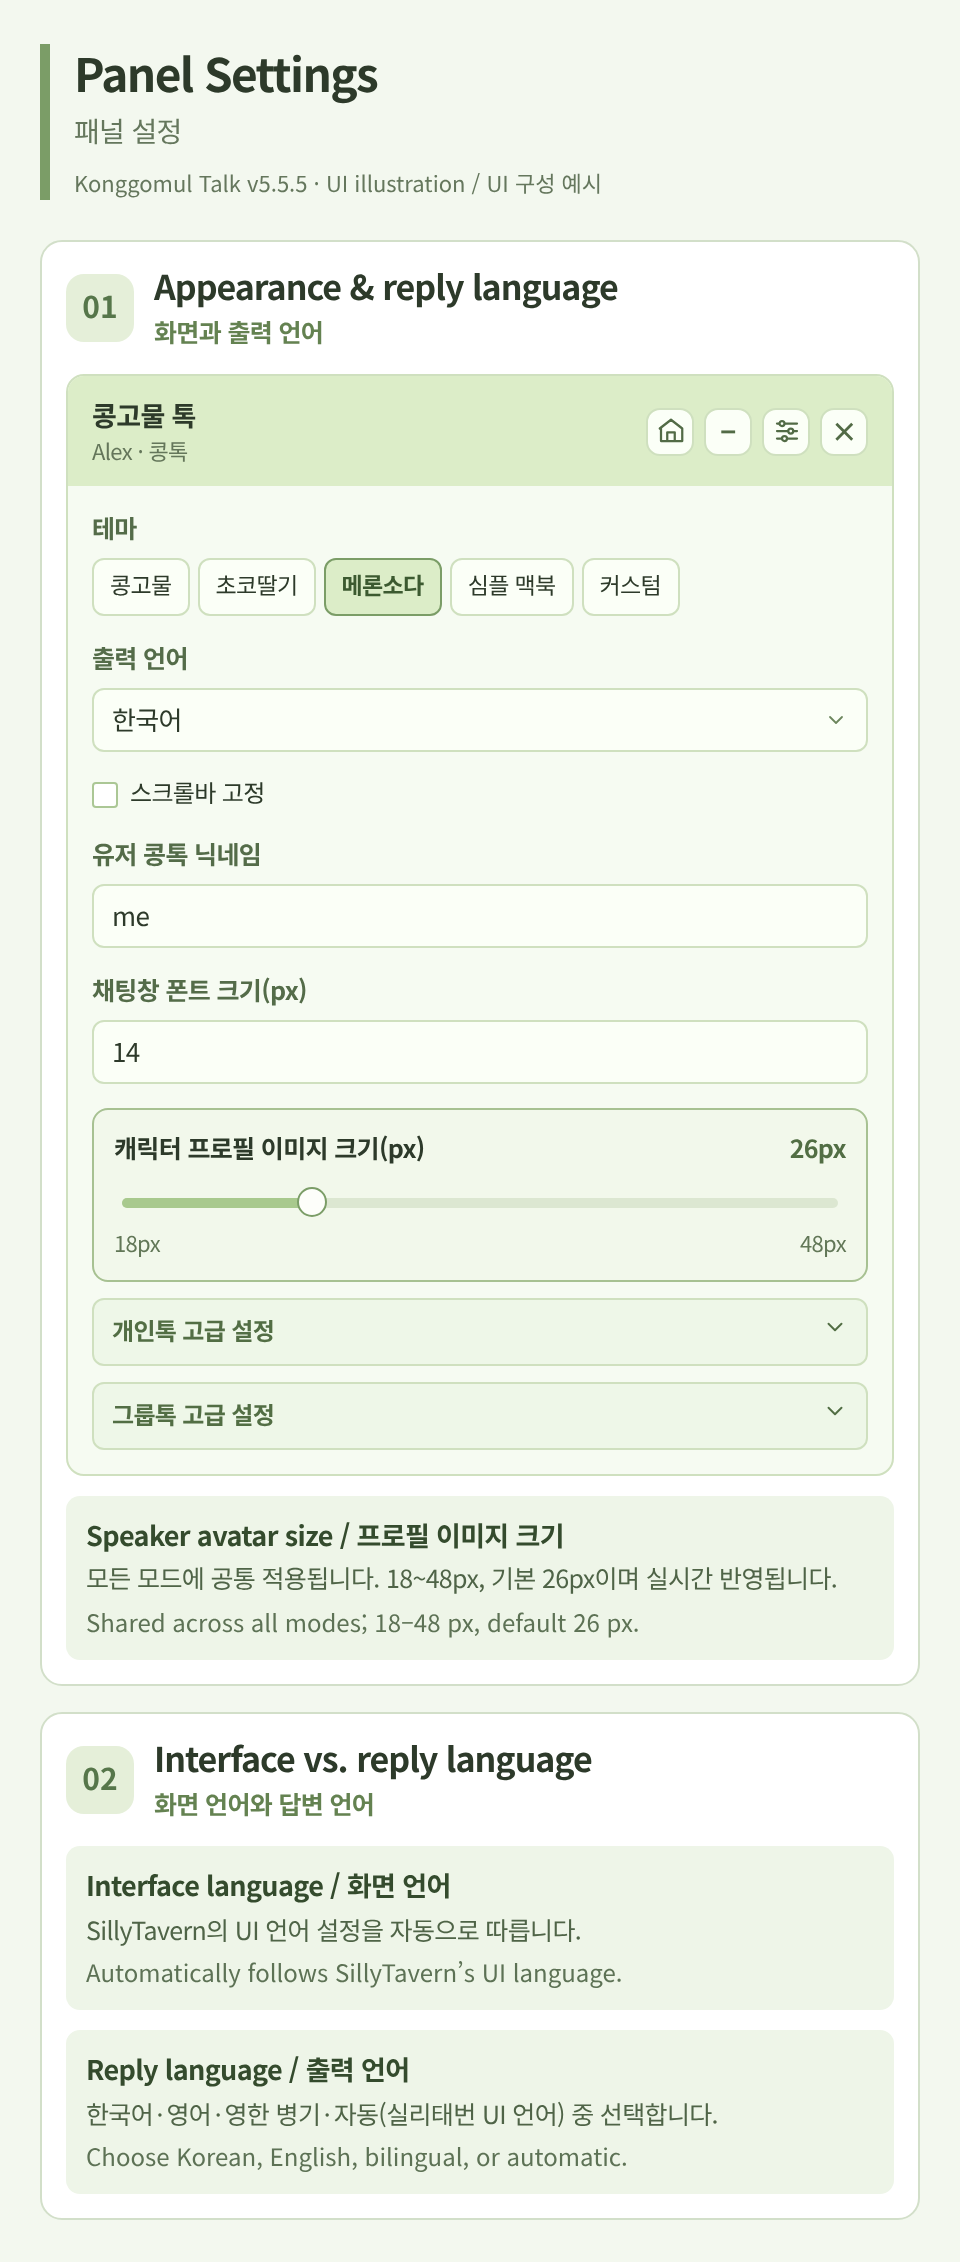
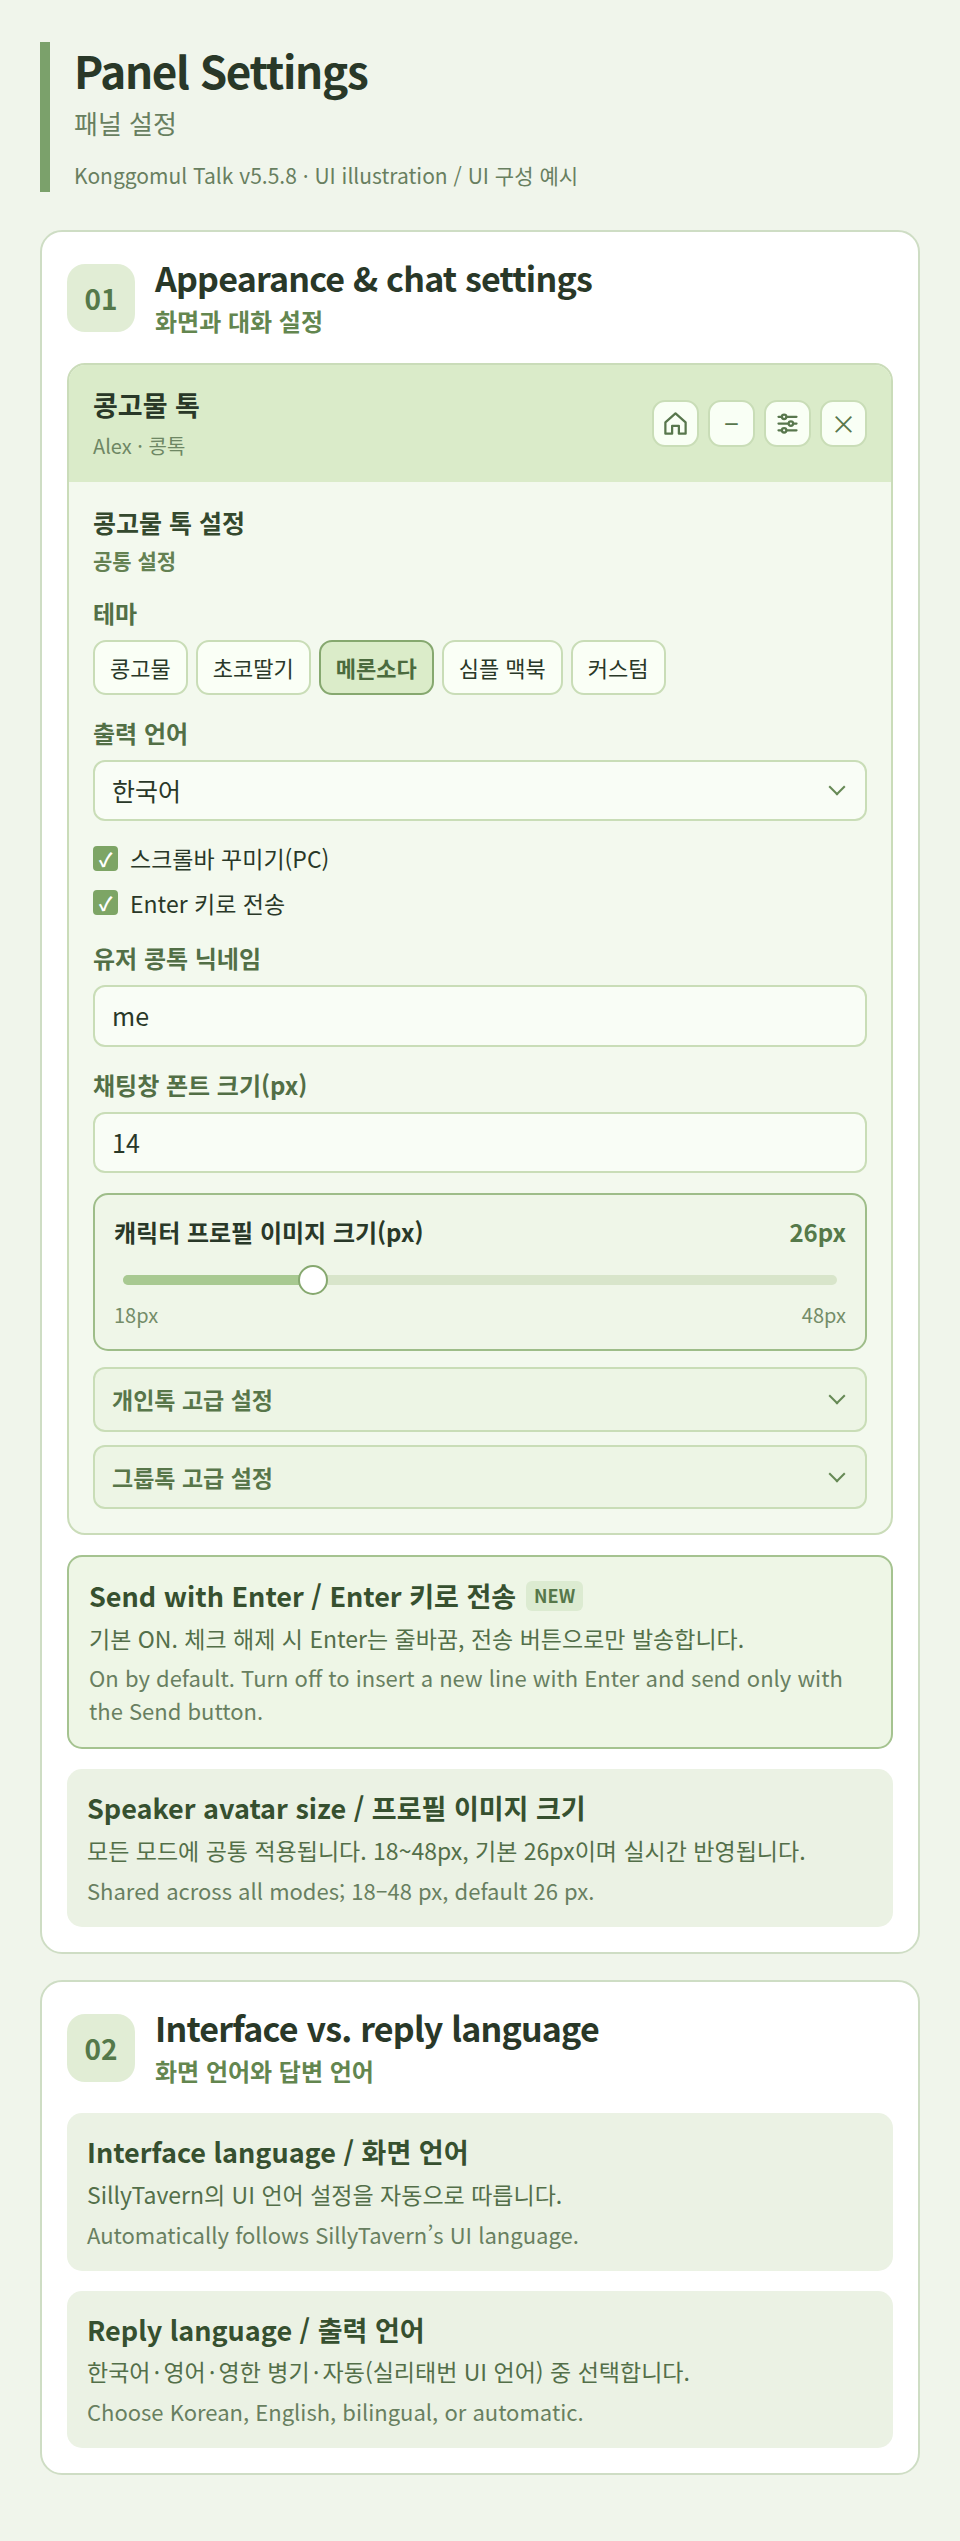
docs: refresh bilingual panel settings guide for v5.5.8

Changed region(s): [[0.0312, 0.0, 0.9688, 0.9593], [0.875, 0.3095, 0.9062, 0.3404]]

diff --git a/README.md b/README.md
@@ -156,6 +156,7 @@ When a new room is created, its opening is prepared for the selected mode.
 | Action | Result |
 |---|---|
 | **Enter a message and press Send** | Generates the character's reply in the current room. |
+| **Press Enter** | Sends when **Send with Enter** is enabled (default); otherwise inserts a new line. Shift+Enter always inserts a new line. |
 | **Press Send with an empty input** | Continues naturally from the latest conversation. |
 | **Press Send while an AI reply is being generated** | Stops the current generation. |
 
@@ -219,7 +220,7 @@ Validation covered parser/history/request tests and Chromium desktop/mobile-widt
 Use `⚙` in the panel header to adjust the current character and Konggomul Talk display settings.
 
 <p align="center">
-  <a href="assets/readme/mobile/konggomul-panel-settings-mobile.png"><img src="assets/readme/mobile/konggomul-panel-settings-mobile.png" alt="Panel settings and speaker avatar size (v5.5.5 UI illustration)" width="860" /></a>
+  <a href="assets/readme/mobile/konggomul-panel-settings-mobile.png"><img src="assets/readme/mobile/konggomul-panel-settings-mobile.png" alt="Panel settings, Send with Enter, and speaker avatar size (v5.5.8 UI illustration)" width="860" /></a>
 </p>
 
 **Display and reply settings**
@@ -229,7 +230,7 @@ Use `⚙` in the panel header to adjust the current character and Konggomul Talk
 | **Theme** | Selects Konggomul, Choco Strawberry, Melon Soda, Simple MacBook, or Custom. |
 | **Response sentence count** | Uses automatic length or targets 1–3, 2–5, 6–10, or 11–18 sentences for normal replies. |
 | **Output language** | Selects Korean, English, English/Korean bilingual, or optional **Auto** (the current SillyTavern interface language). Existing preferences are not changed. In bilingual mode, every English sentence is followed on the next line by its Korean translation in brackets. |
-| **Fixed scrollbar** | Switches between the themed fixed scrollbar and the browser's default scrollbar. |
+| **Style scrollbar (PC)** | Switches between the themed scrollbar and the browser's default scrollbar on desktop. |
 | **Send with Enter** | On by default in all talk modes. Enter sends and Shift+Enter inserts a new line. When off, Enter inserts a new line and only the Send button sends. |
 | **User Kongtalk nickname** | Sets the name or emoji shown beside user messages. Up to four characters are displayed; leave it blank to hide the label. |
 | **Chat font size** | Adjusts the font size of Konggomul Talk messages. |
@@ -471,6 +472,7 @@ The panel position and size, theme, character voice note, coworker work note, re
 | 조작 | 기능 |
 |---|---|
 | **메시지 입력 + 전송 버튼 클릭** | 현재 방에서 캐릭터의 답변을 생성합니다. |
+| **Enter 키** | **Enter 키로 전송**을 체크하면 전송하고(기본값), 해제하면 줄을 바꿉니다. Shift+Enter는 항상 줄을 바꿉니다. |
 | **빈 입력창 + 전송 버튼 클릭** | 직전 대화를 자연스럽게 이어서 답변을 생성합니다. |
 | **AI 답변 생성 중 전송 버튼 클릭** | 생성 중인 답변을 중지합니다. |
 
@@ -534,7 +536,7 @@ The panel position and size, theme, character voice note, coworker work note, re
 패널 상단의 `⚙`에서 현재 캐릭터와 콩고물 톡 화면에 적용할 설정을 조절합니다.
 
 <p align="center">
-  <a href="assets/readme/mobile/konggomul-panel-settings-mobile.png"><img src="assets/readme/mobile/konggomul-panel-settings-mobile.png" alt="패널 설정과 캐릭터 프로필 이미지 크기 (v5.5.5 UI 구성 예시)" width="860" /></a>
+  <a href="assets/readme/mobile/konggomul-panel-settings-mobile.png"><img src="assets/readme/mobile/konggomul-panel-settings-mobile.png" alt="패널 설정, Enter 키로 전송, 캐릭터 프로필 이미지 크기 (v5.5.8 UI 구성 예시)" width="860" /></a>
 </p>
 
 **화면과 답변 설정**
@@ -544,7 +546,7 @@ The panel position and size, theme, character voice note, coworker work note, re
 | **테마** | 콩고물, 초코딸기, 메론소다, 심플 맥북, 커스텀 중에서 선택합니다. |
 | **답변 문장 수** | 자동 길이를 사용하거나 일반 답변을 1~3, 2~5, 6~10, 11~18문장 중 하나의 범위로 생성하도록 지정합니다. |
 | **출력 언어** | 한국어·영어·영한 병기 또는 **자동(실리태번 UI 언어)** 중 선택합니다. 기존 사용자 설정은 변경하지 않습니다. 영한 병기는 영문 한 문장 다음 줄에 한국어 번역을 대괄호로 표시합니다. |
-| **스크롤 바 고정** | 테마에 맞춘 고정 스크롤바와 브라우저 기본 스크롤바를 전환합니다. |
+| **스크롤바 꾸미기(PC)** | PC에서 테마 스타일의 스크롤바와 브라우저 기본 스크롤바를 전환합니다. |
 | **Enter 키로 전송** | 모든 대화 모드에 공통 적용됩니다(기본 ON). 체크하면 Enter로 전송하고 Shift+Enter로 줄을 바꿉니다. 해제하면 Enter로 줄을 바꾸고 전송 버튼으로만 전송합니다. |
 | **유저 콩톡 닉네임** | 유저 메시지 옆에 표시할 이름이나 이모지를 정합니다. 화면에는 최대 4글자까지 표시되며, 비워두면 표시하지 않습니다. |
 | **채팅창 폰트 크기** | 콩고물 톡 메시지의 글씨 크기를 조절합니다. |
